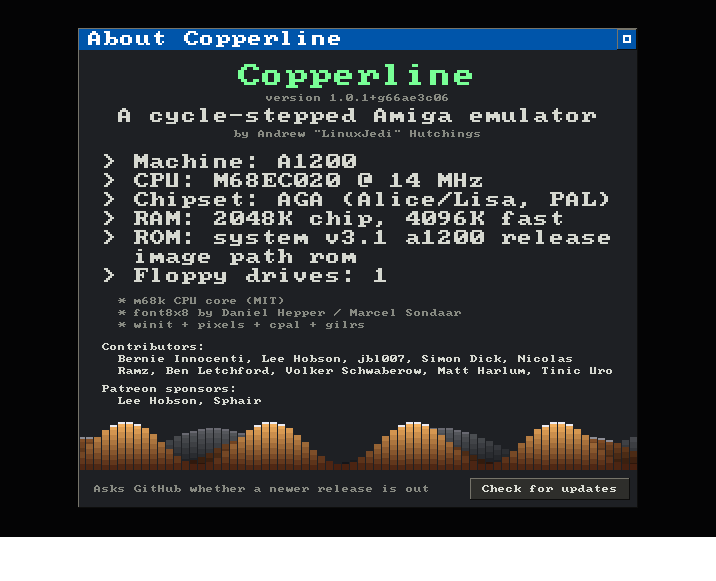
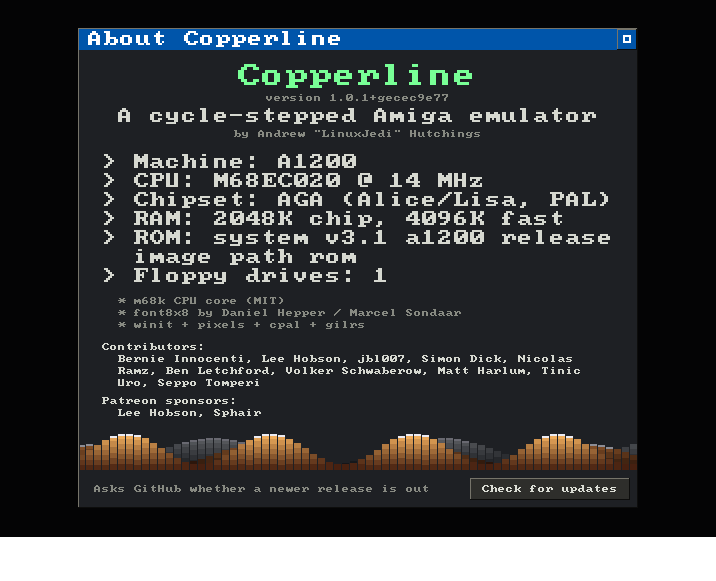
credits: add Seppo Tomperi as a contributor

diff --git a/src/video/about.rs b/src/video/about.rs
@@ -35,6 +35,7 @@ const CONTRIBUTORS: &[&str] = &[
     "Volker Schwaberow",
     "Matt Harlum",
     "Tinic Uro",
+    "Seppo Tomperi",
 ];
 const PATREON_SPONSORS: &[&str] = &["Lee Hobson", "Sphair"];
 

diff --git a/CREDITS.md b/CREDITS.md
@@ -16,6 +16,7 @@ Code contributions from (the full list is on
 - Volker Schwaberow
 - Matt Harlum
 - Tinic Uro
+- Seppo Tomperi
 
 ## Patreon sponsors
 
